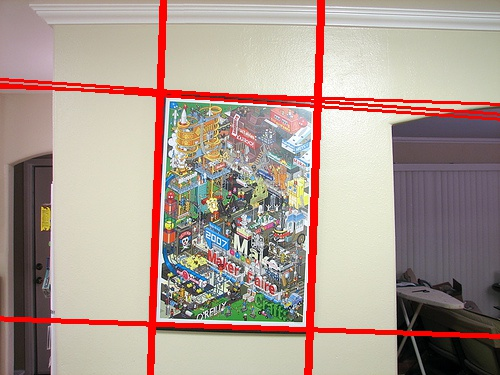
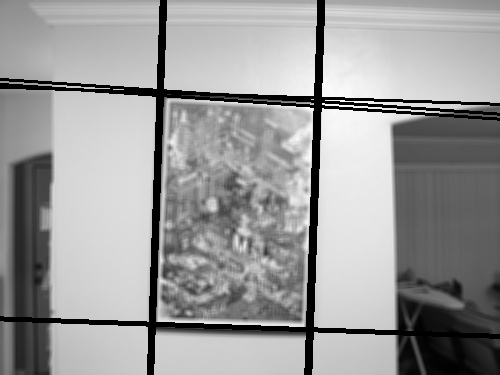
Do rotating in python lmao why didn't I start with this

Changed region(s): [[0.0, 0.0, 1.0, 1.0], [0.09, 0.0, 0.18, 0.0293], [0.87, 0.352, 0.9, 0.3813]]

diff --git a/parallel.py b/parallel.py
@@ -7,6 +7,12 @@ if len(sys.argv) < 3:
     print "Needs 2 arguments, image and line threshold"
     exit()
 
+def rotate_img(img, angle):
+    image_center = tuple(np.array(img.shape[1::-1]) / 2)
+    rot_mat = cv2.getRotationMatrix2D(image_center, angle, 1.0)
+    result = cv2.warpAffine(img, rot_mat, img.shape[1::-1], flags=cv2.INTER_LINEAR)
+    return result
+
 # Returns tuples of indexes of parallel lines
 def find_parallel_lines(lines):
     parallel_pairs = []
@@ -15,7 +21,7 @@ def find_parallel_lines(lines):
         for j in range(i, len(lines)):
             if (i == j): continue
             if (abs(lines[i][1] - lines[j][1]) == 0):
-                parallel_pairs.append((i,j))
+                parallel_pairs.append((i, j))
 
     return parallel_pairs
 
@@ -44,18 +50,32 @@ def find_baseline(lines):
 # Finds the angle of rotation required to straighten the image to the closest
 # axis (horizontal or vertical)
 def convert_to_rotation_angle(line_angle):
-    angle = 360 - line_angle
-    if line_angle < 45:
-        pass
-    elif line_angle < 135:
-        angle = 90 - line_angle
-    elif line_angle < 225:
-        angle = 180 - line_angle
-    elif line_angle < 315:
-        angle = 270 - line_angle
+    if line_angle < 0.25 * np.pi:
+        return line_angle
 
-    # Always return positive angle
-    return angle if angle > 0 else angle + 360
+    elif line_angle < 0.75 * np.pi:
+        return line_angle - 0.5 * np.pi
+
+    elif line_angle < 1.25 * np.pi:
+        return line_angle - np.pi
+
+    elif line_angle < 1.75 * np.pi:
+        return line_angle - 1.5 * np.pi
+
+    else:
+        return line_angle
+    #  angle = 2 * np.pi - line_angle
+    #  if line_angle < 0.25 * np.pi:
+        #  pass
+    #  elif line_angle < 0.75 * np.pi:
+        #  angle = 0.5 * np.pi - line_angle
+    #  elif line_angle < 1.25 * np.pi:
+        #  angle = np.pi - line_angle
+    #  elif line_angle < 1.75 * np.pi:
+        #  angle = 1.5 * np.pi - line_angle
+
+    #  #  Always return positive angle
+    #  return angle if angle > 0 else angle + 2 * np.pi
 
 # Draws a line on img given r and theta in polar
 # Computes two points in (x, y) and passes them to cv2.line
@@ -70,12 +90,12 @@ def draw_line(r, theta, img):
     x2 = int(x0 - 1000 * -b)
     y2 = int(y0 - 1000 * a)
 
-    cv2.line(img, (x1, y1), (x2, y2), (0, 0, 255), 2)
+    cv2.line(img, (x1, y1), (x2, y2), (0, 0, 0), 2)
 
-img = cv2.imread(sys.argv[1])
+input_img = cv2.imread(sys.argv[1])
 
 # Blur and grayscale image
-blur = cv2.blur(img, (5, 5))
+blur = cv2.blur(input_img, (5, 5))
 gray = cv2.cvtColor(blur, cv2.COLOR_BGR2GRAY)
 
 # Lines are found by lining up edge features
@@ -93,13 +113,18 @@ lines = list(map(lambda x: x[0], hough_lines))
 parallels = find_parallel_lines(lines)
 for idx_pair in parallels:
     idx1, idx2 = idx_pair
-    draw_line(lines[idx1][0], lines[idx1][1], img)
-    draw_line(lines[idx2][0], lines[idx2][1], img)
+    draw_line(lines[idx1][0], lines[idx1][1], gray)
+    draw_line(lines[idx2][0], lines[idx2][1], gray)
 
-cv2.imwrite("withlines.jpg", img)
+cv2.imwrite("withlines.jpg", gray)
 
-angles, likely_angle = find_baseline(lines)
+angle_count, likely_angle = find_baseline(lines)
+rot_angle = math.degrees(convert_to_rotation_angle(likely_angle))
 
 # Print this just for info
-print angles
-print convert_to_rotation_angle(math.degrees(likely_angle))
+print "Angle count:\t" + str(angle_count)
+print "In degrees:\t" + str(math.degrees(rot_angle))
+
+# Write rotated image
+rotated_image = rotate_img(input_img, rot_angle)
+cv2.imwrite("output.jpg", rotated_image)

diff --git a/README.md b/README.md
@@ -12,19 +12,13 @@
 
 ## Usage
 
-If you just want to try it, run `rotate.sh` on a file. The repo comes with a
-test file (`test.jpg`) which you can try it on.
+Run `parallel.py` on the image you want to rotate. The script takes two
+[required] arguments, the path to the image and the threshold for recognizing
+lines.
 
 ```bash
-# Only runs on Mac OS (uses sips)
-./rotate.sh test.jpg
+python parallel.py test.jpg 100
 ```
-
-If you're not on Mac or if you want to see everything for yourself, first run
-`parallel.py` on a test image. The script takes two inputs, the path to the file
-and the threhold to detect lines (still working on finding a good constant for
-this). The last line of output is what you'll need, it's the clockwise angle
-from the positive y axis (vertical) that the image must be rotated by.
 
 ## Todo
 
